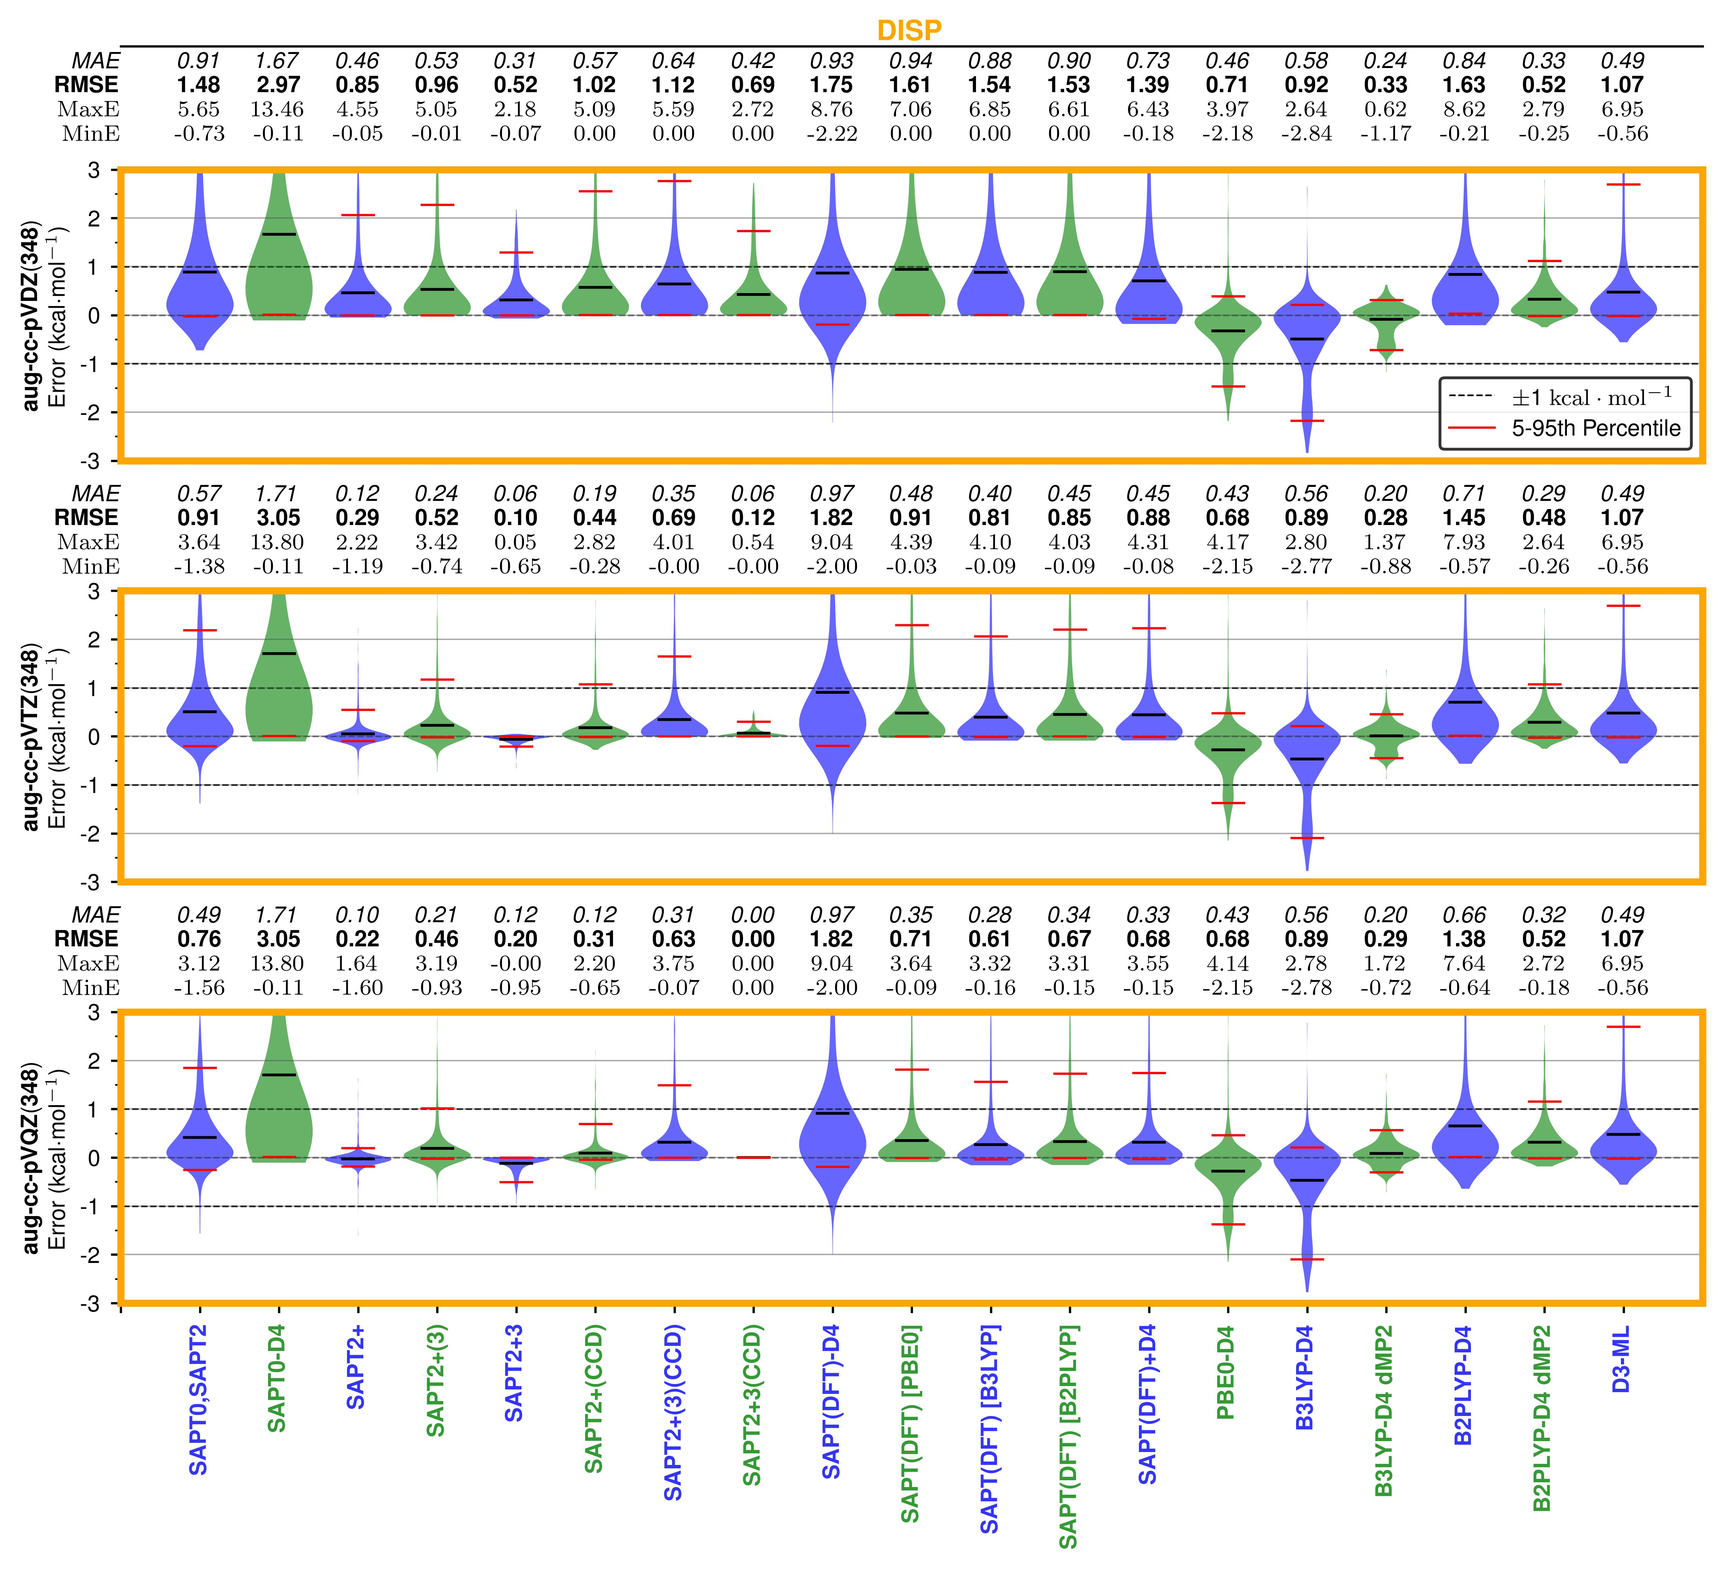
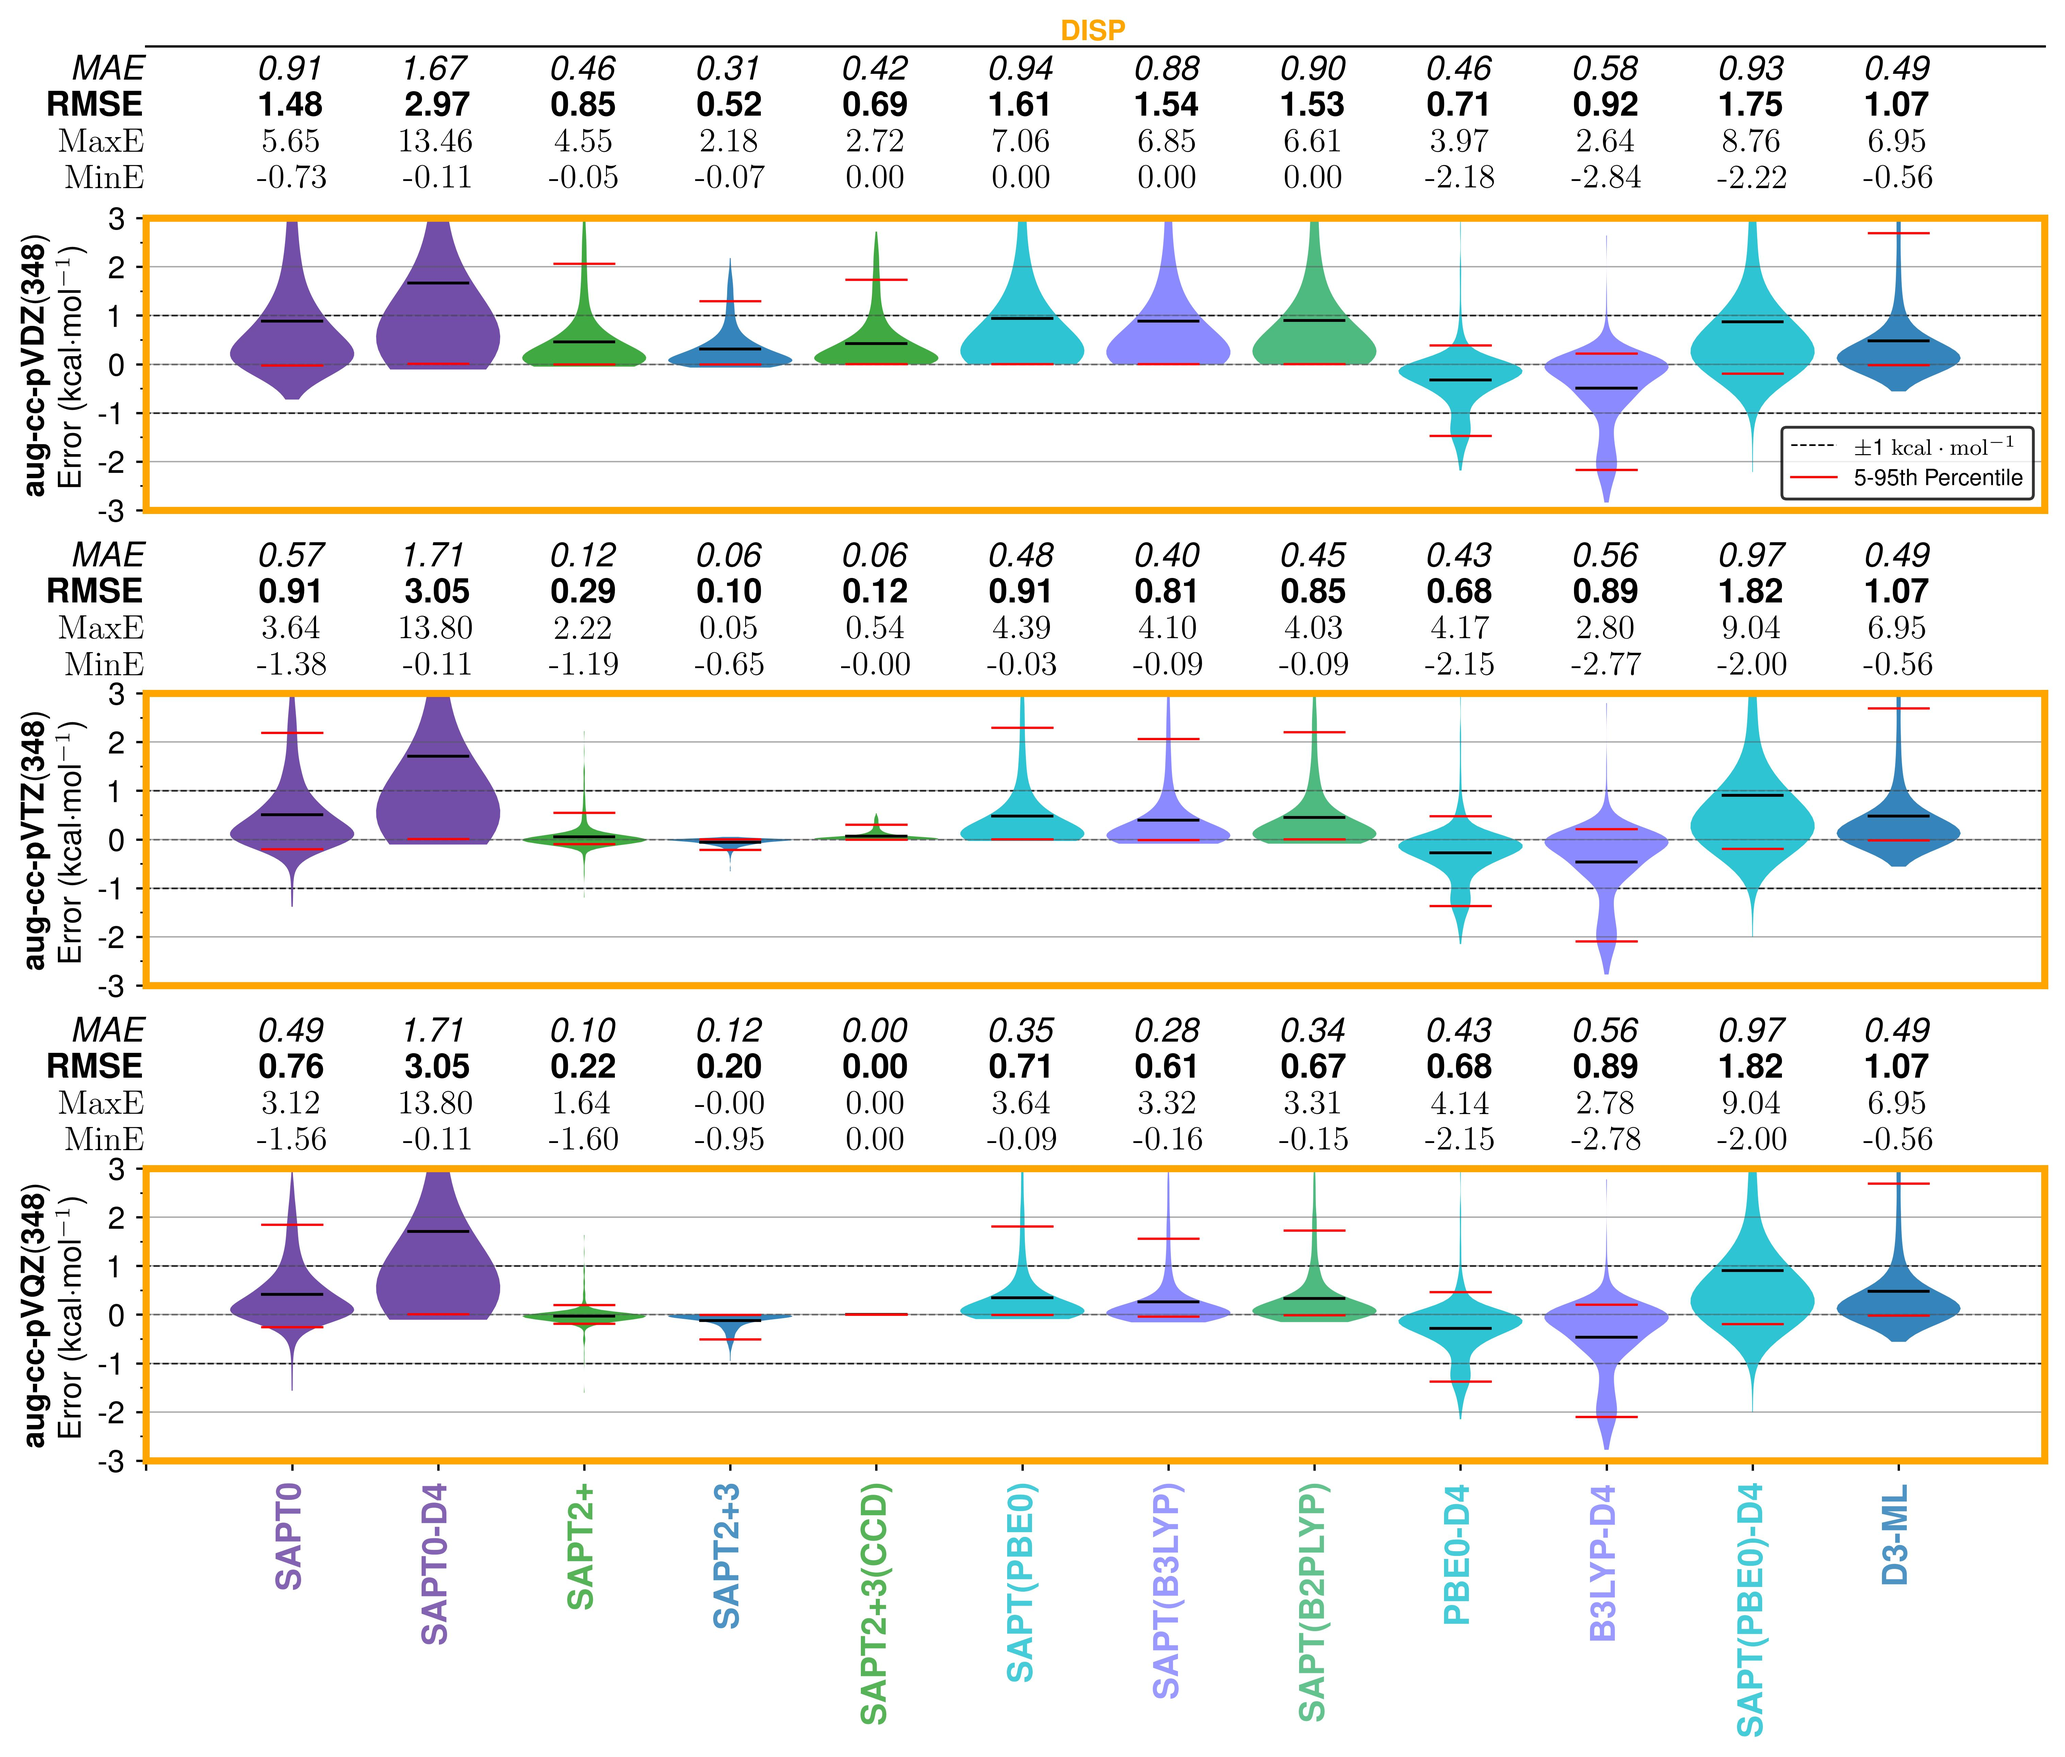
component plots

diff --git a/src/plotting.py b/src/plotting.py
@@ -6481,32 +6481,8 @@ def violin_plots_multi_components(df, limit_to_column_not_nan=None, slide=True):
             "SAPT(B2PLYP)": "SAPT(DFT) [B2PLYP] IND ENERGY Error",
             # "SAPT(WB97X]": "SAPT(DFT) [WB97X] IND ENERGY Error",
         },
-        df_labels_and_columns_disp={
-            # "SAPT0,SAPT2": "SAPT0 DISP ENERGY Error",
-            # "SAPT0-D4": "SAPT0-D4 DISP ENERGY Error",
-            # # "sSAPT0": "SSAPT0 DISP ENERGY Error",
-            # "SAPT2+": "SAPT2+ DISP ENERGY Error",
-            # "SAPT2+(3)": "SAPT2+(3) DISP ENERGY Error",
-            # "SAPT2+3": "SAPT2+3 DISP ENERGY Error",
-            # "SAPT2+(CCD)": "SAPT2+(CCD) DISP ENERGY Error",
-            # "SAPT2+(3)(CCD)": "SAPT2+(3)(CCD) DISP ENERGY Error",
-            # "SAPT2+3(CCD)": "SAPT2+3(CCD) DISP ENERGY Error",
-            # "SAPT(DFT)-D4": "SAPT(DFT)-D4 DISP ENERGY Error",
-            # "SAPT(DFT) [PBE0]": "SAPT(DFT) [PBE0] DISP ENERGY Error",
-            # "SAPT(DFT) [B3LYP]": "SAPT(DFT) [B3LYP] DISP ENERGY Error",
-            # "SAPT(DFT) [B2PLYP]": "SAPT(DFT) [B2PLYP] DISP ENERGY Error",
-            # "SAPT(DFT) [WB97X]": "SAPT(DFT) [WB97X] DISP ENERGY Error",
-            # "SAPT(DFT)+D4": "SAPT(DFT)+D4 DISP ENERGY Error",
-            # "PBE0-D4": "PBE0-D4 DISP ENERGY Error",
-            # "B3LYP-D4": "B3LYP-D4 DISP ENERGY Error",
-            # "B2PLYP-D4": "B2PLYP-D4 DISP ENERGY Error",
-            # "WB97X-D4": "WB97X-D4 DISP ENERGY Error",
-            # "D3-ML": "D3-ML DISP ENERGY Error",
-        },
         colors=colors_comps_saptdftd4,
-        output_filename=f"./plots/LoS_components_adz_atz_nondisp{extra_label}.jpg",
         violin_alphas=0.9,
-        
         usetex=True,
         legend_loc="lower right",
         table_fontsize=table_fontsize,
@@ -6515,16 +6491,11 @@ def violin_plots_multi_components(df, limit_to_column_not_nan=None, slide=True):
         figure_size=fig_size,
         grid_heights=grid_heights,
         grid_widths=[5, 5, 6],
+        output_filename=f"./plots/LoS_components_adz_atz_nondisp{extra_label}.jpg",
         # mcure=mcure_labels,
     )
     cdsg_plot.error_statistics.violin_plot_table_multi_SAPT_components(
         dfs,
-        df_labels_and_columns_elst={
-        },
-        df_labels_and_columns_exch={
-        },
-        df_labels_and_columns_indu={
-        },
         df_labels_and_columns_disp={
             "SAPT0": "SAPT0 DISP ENERGY Error",
             "SAPT0-D4": "SAPT0-D4 DISP ENERGY Error",
@@ -6548,7 +6519,6 @@ def violin_plots_multi_components(df, limit_to_column_not_nan=None, slide=True):
             "D3-ML": "D3-ML DISP ENERGY Error",
         },
         colors=colors_disp_saptdftd4,
-        output_filename=f"./plots/LoS_components_adz_atz_disp{extra_label}.jpg",
         usetex=True,
         legend_loc="lower right",
         table_fontsize=table_fontsize,
@@ -6558,6 +6528,7 @@ def violin_plots_multi_components(df, limit_to_column_not_nan=None, slide=True):
         figure_size=fig_size,
         grid_heights = grid_heights,
         grid_widths = [1.0],
+        output_filename=f"./plots/LoS_components_adz_atz_disp{extra_label}.jpg",
         # mcure=mcure_labels,
     )
     return
@@ -7726,106 +7697,98 @@ def violin_plots_multi_components_subset(df, limit_to_column_not_nan=None):
         },
     ]
     import cdsg_plot
+    fig_size = (12, 9)
+    grid_heights = [
+        0.9,
+        2,
+        0.7,
+        2,
+        0.7,
+        2,
+    ]
+    table_fontsize = 12
+    x_label_fontsize = 12
+    extra_label = "_slide"
     cdsg_plot.error_statistics.violin_plot_table_multi_SAPT_components(
         dfs,
         df_labels_and_columns_elst={
-            "SAPT0,sSAPT0": "SAPT0 ELST ENERGY Error",
-            "SAPT2,SAPT2+": "SAPT2 ELST ENERGY Error",
-            "SAPT2+(3),SAPT2+3": "SAPT2+(3) ELST ENERGY Error",
-            # "SAPT(DFT) [PBE0]": "SAPT(DFT) [PBE0] ELST ENERGY Error",
-            "SAPT(DFT) [B3LYP]": "SAPT(DFT) [B3LYP] ELST ENERGY Error",
-            "SAPT(DFT) [B2PLYP]": "SAPT(DFT) [B2PLYP] ELST ENERGY Error",
-            # "SAPT(DFT) [WB97X]": "SAPT(DFT) [WB97X] ELST ENERGY Error",
+            "SAPT0": "SAPT0 ELST ENERGY Error",
+            "SAPT2+3": "SAPT2+(3) ELST ENERGY Error",
+            "SAPT(PBE0)": "SAPT(DFT) [PBE0] ELST ENERGY Error",
+            "SAPT(B3LYP)": "SAPT(DFT) [B3LYP] ELST ENERGY Error",
+            "SAPT(B2PLYP)": "SAPT(DFT) [B2PLYP] ELST ENERGY Error",
+            # "SAPT(WB97X)": "SAPT(DFT) [WB97X] ELST ENERGY Error",
         },
         df_labels_and_columns_exch={
-            "SAPT0,sSAPT0": "SAPT0 EXCH ENERGY Error",
-            "SAPT2,SAPT2+,\\\\SAPT2+(3),SAPT2+3": "SAPT2 EXCH ENERGY Error",
-            "SAPT(DFT) [PBE0]": "SAPT(DFT) [PBE0] EXCH ENERGY Error",
-            "SAPT(DFT) [B3LYP]": "SAPT(DFT) [B3LYP] EXCH ENERGY Error",
-            # "SAPT(DFT) [B3LYP] dMP2": "SAPT(DFT) [B3LYP] dMP2 EXCH ENERGY Error",
-            "SAPT(DFT) [B2PLYP]": "SAPT(DFT) [B2PLYP] EXCH ENERGY Error",
-            # "SAPT(DFT) [B2PLYP] dMP2": "SAPT(DFT) [B2PLYP] dMP2 EXCH ENERGY Error",
-            # "SAPT(DFT) [WB97X]": "SAPT(DFT) [WB97X] EXCH ENERGY Error",
+            "SAPT0": "SAPT0 EXCH ENERGY Error",
+            "SAPT2+3": "SAPT2 EXCH ENERGY Error",
+            "SAPT(PBE0)": "SAPT(DFT) [PBE0] EXCH ENERGY Error",
+            "SAPT(B3LYP)": "SAPT(DFT) [B3LYP] EXCH ENERGY Error",
+            # "SAPT(B3LYP) dMP2": "SAPT(DFT) [B3LYP] dMP2 EXCH ENERGY Error",
+            "SAPT(B2PLYP)": "SAPT(DFT) [B2PLYP] EXCH ENERGY Error",
+            # "SAPT(WB97X)": "SAPT(DFT) [WB97X] EXCH ENERGY Error",
         },
         df_labels_and_columns_indu={
             "SAPT0": "SAPT0 IND ENERGY Error",
             # "sSAPT0": "SSAPT0 IND ENERGY Error",
-            "SAPT2,SAPT2+,\\\\SAPT2+(3),SAPT2+3": "SAPT2 IND ENERGY Error",
+            "SAPT2+3": "SAPT2 IND ENERGY Error",
             # should be here but moved for dense plotting...
             # "SAPT2+DMP2,\\\\SAPT2+(3)DMP2": "SAPT2+DMP2 IND ENERGY Error",
             "SAPT2+3DMP2": "SAPT2+3DMP2 IND ENERGY Error",
-            "SAPT2+DMP2,\\\\SAPT2+(3)DMP2": "SAPT2+DMP2 IND ENERGY Error",
-            "SAPT(DFT) [PBE0]": "SAPT(DFT) [PBE0] IND ENERGY Error",
-            "SAPT(DFT) [B3LYP]": "SAPT(DFT) [B3LYP] IND ENERGY Error",
-            # "SAPT(DFT) [B3LYP] dMP2": "SAPT(DFT) [B3LYP] dMP2 IND ENERGY Error",
-            "SAPT(DFT) [B2PLYP]": "SAPT(DFT) [B2PLYP] IND ENERGY Error",
-            # "SAPT(DFT) [B2PLYP] dMP2": "SAPT(DFT) [B2PLYP] dMP2 IND ENERGY Error",
-            # "SAPT(DFT) [WB97X]": "SAPT(DFT) [WB97X] IND ENERGY Error",
+            # "SAPT2+DMP2,\\\\SAPT2+(3)DMP2": "SAPT2+DMP2 IND ENERGY Error",
+            "SAPT(PBE0)": "SAPT(DFT) [PBE0] IND ENERGY Error",
+            "SAPT(B3LYP)": "SAPT(DFT) [B3LYP] IND ENERGY Error",
+            "SAPT(B2PLYP)": "SAPT(DFT) [B2PLYP] IND ENERGY Error",
+            # "SAPT(WB97X]": "SAPT(DFT) [WB97X] IND ENERGY Error",
         },
-        df_labels_and_columns_disp={},
-        output_filename=f"./plots/LoS_components_adz_atz_aqz_subset_nondisp.jpg",
-        table_fontsize=8,
+        colors=colors_comps_saptdftd4,
+        violin_alphas=0.9,
         usetex=True,
         legend_loc="lower right",
-        figure_size=(10, 8),
-        grid_heights = [
-            0.6,
-            2,
-            0.4,
-            2,
-            0.4,
-            2,
-        ],
-        grid_widths = [0.75, 0.75, 1.0],
+        table_fontsize=table_fontsize,
+        x_label_fontsize=x_label_fontsize,
+        y_label_fontsize=11,
+        figure_size=fig_size,
+        grid_heights=grid_heights,
+        grid_widths=[5, 5, 6],
+        output_filename=f"./plots/LoS_components_adz_atz_aqz_subset_nondisp.jpg",
         # mcure=mcure_labels,
     )
     cdsg_plot.error_statistics.violin_plot_table_multi_SAPT_components(
         dfs,
-        df_labels_and_columns_elst={
-        },
-        df_labels_and_columns_exch={
-        },
-        df_labels_and_columns_indu={
-        },
         df_labels_and_columns_disp={
-            "SAPT0,SAPT2": "SAPT0 DISP ENERGY Error",
+            "SAPT0": "SAPT0 DISP ENERGY Error",
             "SAPT0-D4": "SAPT0-D4 DISP ENERGY Error",
             # "sSAPT0": "SSAPT0 DISP ENERGY Error",
             "SAPT2+": "SAPT2+ DISP ENERGY Error",
-            "SAPT2+(3)": "SAPT2+(3) DISP ENERGY Error",
+            # "SAPT2+(3)": "SAPT2+(3) DISP ENERGY Error",
             "SAPT2+3": "SAPT2+3 DISP ENERGY Error",
-            "SAPT2+(CCD)": "SAPT2+(CCD) DISP ENERGY Error",
-            "SAPT2+(3)(CCD)": "SAPT2+(3)(CCD) DISP ENERGY Error",
+            # "SAPT2+(CCD)": "SAPT2+(CCD) DISP ENERGY Error",
+            # "SAPT2+(3)(CCD)": "SAPT2+(3)(CCD) DISP ENERGY Error",
             "SAPT2+3(CCD)": "SAPT2+3(CCD) DISP ENERGY Error",
-            "SAPT(DFT)-D4": "SAPT(DFT)-D4 DISP ENERGY Error",
-            "SAPT(DFT) [PBE0]": "SAPT(DFT) [PBE0] DISP ENERGY Error",
-            "SAPT(DFT) [B3LYP]": "SAPT(DFT) [B3LYP] DISP ENERGY Error",
-            "SAPT(DFT) [B2PLYP]": "SAPT(DFT) [B2PLYP] DISP ENERGY Error",
-            # "SAPT(DFT) [WB97X]": "SAPT(DFT) [WB97X] DISP ENERGY Error",
+            "SAPT(PBE0)": "SAPT(DFT) [PBE0] DISP ENERGY Error",
+            "SAPT(B3LYP)": "SAPT(DFT) [B3LYP] DISP ENERGY Error",
+            "SAPT(B2PLYP)": "SAPT(DFT) [B2PLYP] DISP ENERGY Error",
+            # "SAPT(WB97X)": "SAPT(DFT) [WB97X] DISP ENERGY Error",
             # "SAPT(DFT)+D4": "SAPT(DFT)+D4 DISP ENERGY Error",
             "PBE0-D4": "PBE0-D4 DISP ENERGY Error",
             "B3LYP-D4": "B3LYP-D4 DISP ENERGY Error",
-            # "B3LYP-D4 dMP2": "B3LYP-D4 dMP2 DISP ENERGY Error",
-            "B2PLYP-D4": "B2PLYP-D4 DISP ENERGY Error",
-            # "B2PLYP-D4 dMP2": "B2PLYP-D4 dMP2 DISP ENERGY Error",
+            "SAPT(PBE0)-D4": "SAPT(DFT)-D4 DISP ENERGY Error",
+            # "B2PLYP-D4": "B2PLYP-D4 DISP ENERGY Error",
             # "WB97X-D4": "WB97X-D4 DISP ENERGY Error",
             "D3-ML": "D3-ML DISP ENERGY Error",
         },
-        output_filename=f"./plots/LoS_components_adz_atz_aqz_subset_disp.jpg",
-        table_fontsize=8,
+        colors=colors_disp_saptdftd4,
         usetex=True,
         legend_loc="lower right",
-        figure_size=(10, 8),
-        grid_heights = [
-            0.6,
-            2,
-            0.4,
-            2,
-            0.4,
-            2,
-        ],
+        table_fontsize=table_fontsize,
+        x_label_fontsize=x_label_fontsize,
+        violin_alphas=0.9,
+        y_label_fontsize=11,
+        figure_size=fig_size,
+        grid_heights = grid_heights,
         grid_widths = [1.0],
-        # mcure=mcure_labels,
+        output_filename=f"./plots/LoS_components_adz_atz_aqz_subset_disp.jpg",
     )
 
     # Compute differences between SAPT0 vs DFT and SAPT0 vs SAPT2+3(CCD),
